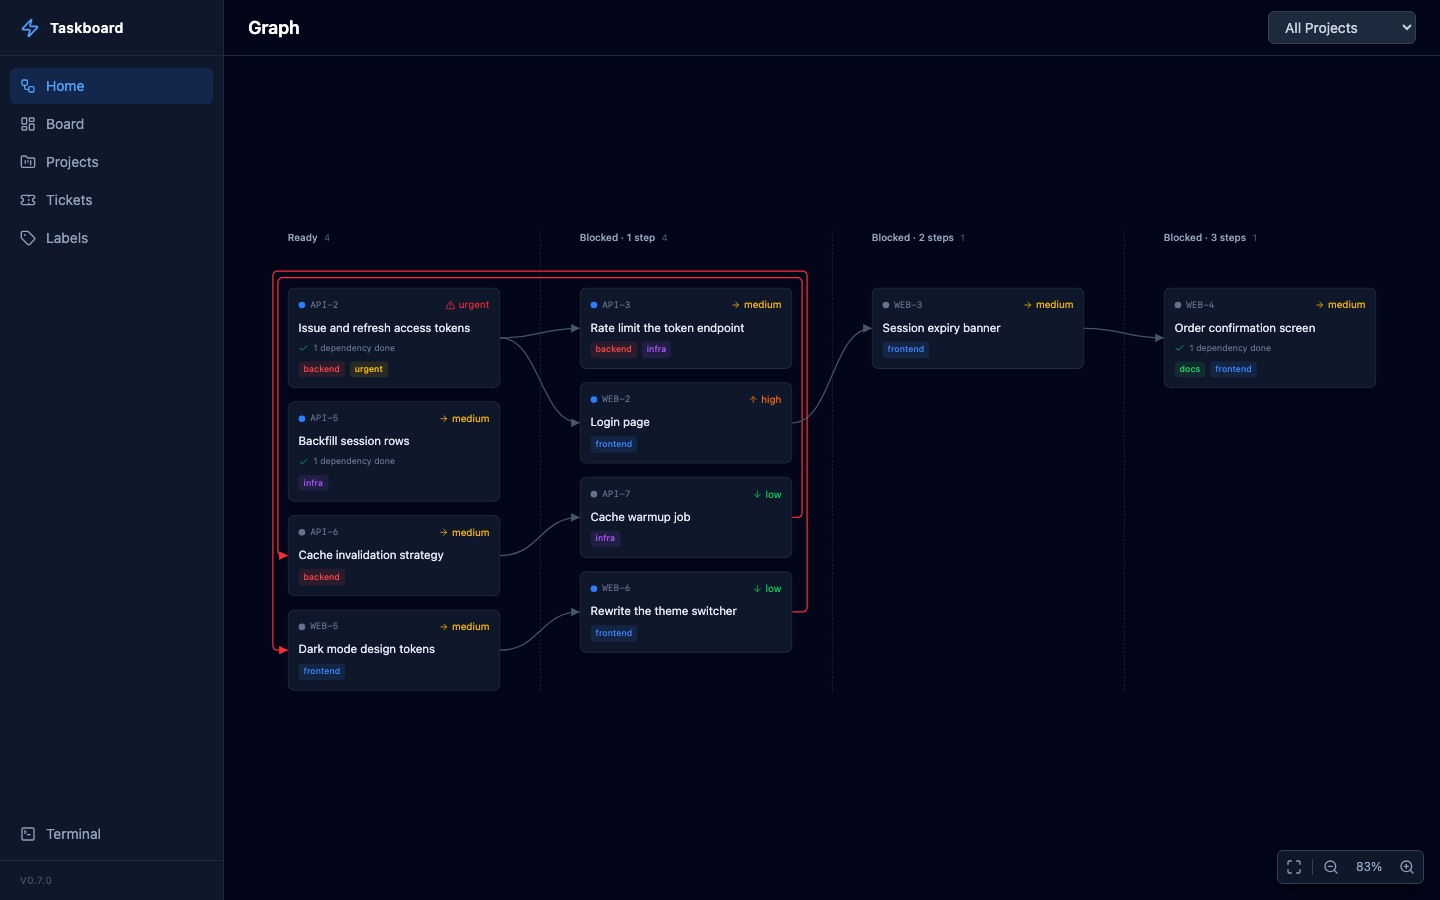
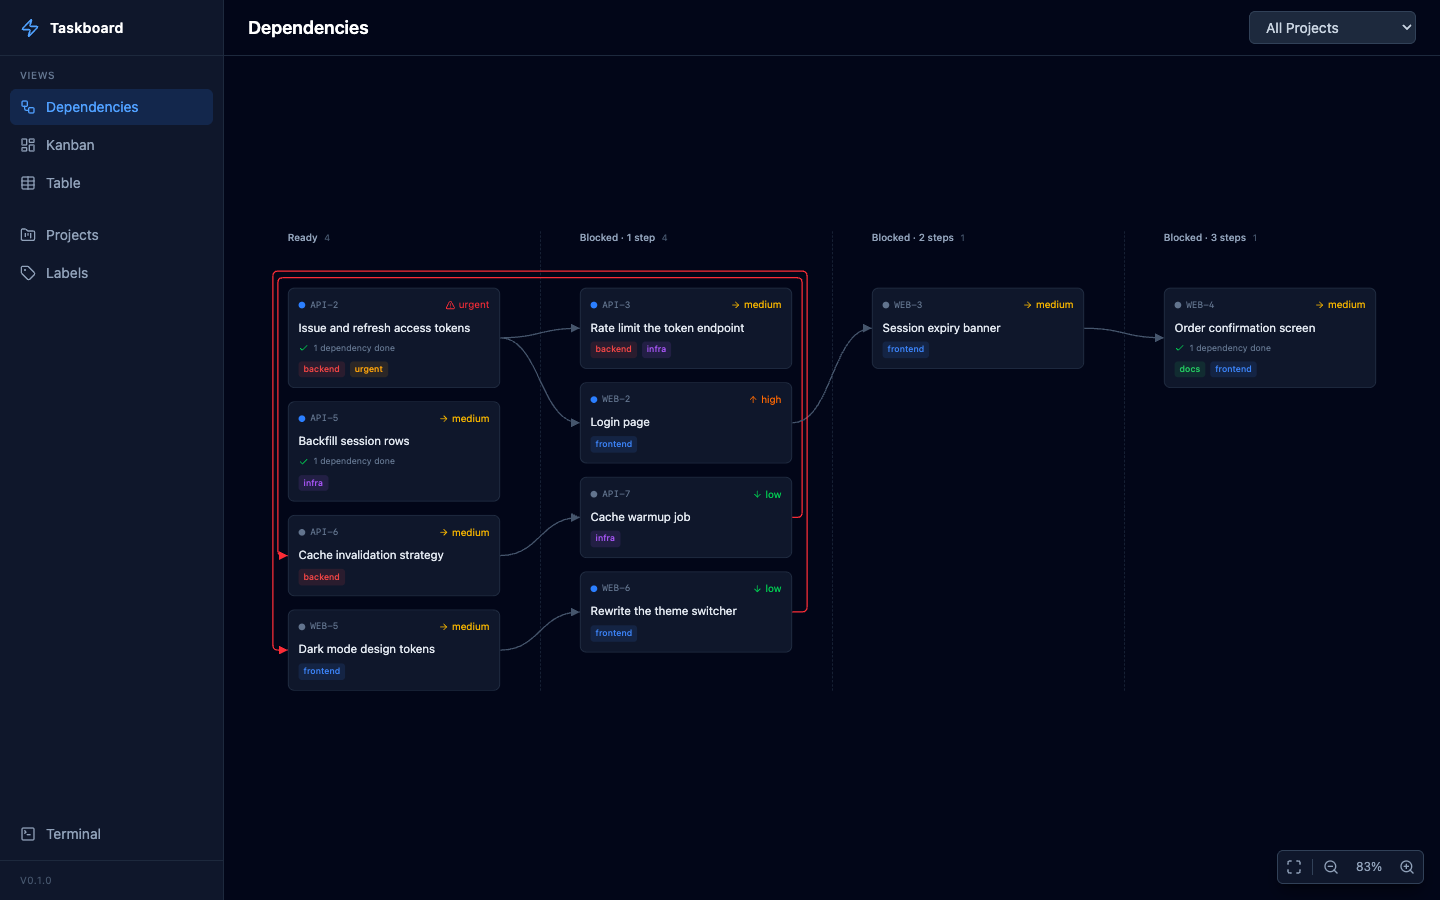
feat: group the ticket views in the sidebar as Dependencies, Kanban and Table
Home, Board and Tickets showed the same tickets three ways, but the sidebar
listed them among Projects and Labels under unrelated names, and the graph
page was headed Graph while its entry said Home.

The sidebar now opens with a Views group holding Dependencies at /, Kanban at
/kanban and Table at /table, with Projects and Labels below it, outside the
group. Each page heading uses the same name as its entry. The entries live in
web/src/lib/navigation.ts. The /board, /tickets and /graph routes are gone
with no redirects, since page URLs carry no backward compatibility, and
nothing else in the app linked to them.

App.tsx now exports its routes as AppRoutes, so a new test can render them
inside a memory router without a DOM. It checks the group and its order, that
each path shows the matching heading and lit entry, and that the old paths
render nothing.

The README describes the three views under one Views feature, and all six
screenshots are regenerated at 1440x900 from two seeded throwaway databases,
so each shows the new sidebar.

Changed region(s): [[0.0, 0.0622, 0.1562, 0.3111], [0.8438, 0.0, 0.9375, 0.0622], [0.1875, 0.0, 0.25, 0.0622]]

diff --git a/web/src/App.test.tsx b/web/src/App.test.tsx
@@ -1,0 +1,93 @@
+import { describe, expect, it, vi } from "vitest";
+import { renderToStaticMarkup } from "react-dom/server";
+import { MemoryRouter } from "react-router-dom";
+import { AppRoutes } from "./App";
+import { VIEWS_GROUP_LABEL, otherItems, viewItems } from "./lib/navigation";
+
+// The terminal needs a DOM, and it stays closed here anyway.
+vi.mock("./components/TerminalPanel", () => ({ default: () => null }));
+
+// Server rendering runs no effects, so the pages never call the API. The mock
+// makes sure of it: any call fails the test.
+vi.mock("./api/client", () => ({
+  api: new Proxy(
+    {},
+    {
+      get: (_target, name) => {
+        throw new Error(`unexpected API call: api.${String(name)}`);
+      },
+    },
+  ),
+}));
+
+function render(path: string): string {
+  return renderToStaticMarkup(
+    <MemoryRouter initialEntries={[path]}>
+      <AppRoutes />
+    </MemoryRouter>,
+  );
+}
+
+function heading(html: string): string | undefined {
+  return /<h1[^>]*>([^<]*)<\/h1>/.exec(html)?.[1];
+}
+
+// The labels of the links inside the Views group, in order.
+function viewsGroupLinks(html: string): string[] {
+  const group = /<div role="group" aria-labelledby="nav-views">(.*?)<\/div><\/div>/.exec(html);
+  if (!group) return [];
+  return [...group[1].matchAll(/<a [^>]*href="([^"]*)"[^>]*>.*?([^<>]+)<\/a>/g)].map(
+    (m) => `${m[2]} ${m[1]}`,
+  );
+}
+
+// The label of the link the router marks as the current page.
+function activeLink(html: string): string | undefined {
+  return /<a [^>]*aria-current="page"[^>]*>.*?([^<>]+)<\/a>/.exec(html)?.[1];
+}
+
+describe("views navigation", () => {
+  it("groups exactly Dependencies, Kanban and Table under Views", () => {
+    expect(VIEWS_GROUP_LABEL).toBe("Views");
+    expect(viewItems.map((i) => `${i.label} ${i.to}`)).toEqual([
+      "Dependencies /",
+      "Kanban /kanban",
+      "Table /table",
+    ]);
+    expect(otherItems.map((i) => `${i.label} ${i.to}`)).toEqual([
+      "Projects /projects",
+      "Labels /labels",
+    ]);
+  });
+
+  it("renders the Views group in the sidebar with Projects and Labels outside it", () => {
+    const html = render("/");
+    expect(html).toContain('<p id="nav-views"');
+    expect(html).toMatch(/id="nav-views"[^>]*>Views<\/p>/);
+    expect(viewsGroupLinks(html)).toEqual(["Dependencies /", "Kanban /kanban", "Table /table"]);
+    expect(html).toMatch(/href="\/projects"[^>]*>.*?Projects<\/a>/);
+    expect(html).toMatch(/href="\/labels"[^>]*>.*?Labels<\/a>/);
+  });
+
+  it.each([
+    ["/", "Dependencies"],
+    ["/kanban", "Kanban"],
+    ["/table", "Table"],
+  ])("serves %s with the heading and active nav entry %s", (path, name) => {
+    const html = render(path);
+    expect(heading(html)).toBe(name);
+    expect(activeLink(html)).toBe(name);
+  });
+
+  it.each(["/board", "/tickets", "/graph"])("no longer serves %s, not even as a redirect", (path) => {
+    const warn = vi.spyOn(console, "warn").mockImplementation(() => {});
+    try {
+      const html = render(path);
+      // The layout route does not match either, so nothing renders at all.
+      expect(html).toBe("");
+      expect(warn).toHaveBeenCalledWith(expect.stringContaining(`No routes matched location "${path}"`));
+    } finally {
+      warn.mockRestore();
+    }
+  });
+});

diff --git a/web/src/components/Layout.tsx b/web/src/components/Layout.tsx
@@ -1,23 +1,27 @@
 import { useState } from "react";
 import { NavLink, Outlet } from "react-router-dom";
-import {
-  Workflow,
-  LayoutDashboard,
-  FolderKanban,
-  Ticket,
-  Tag,
-  Zap,
-  TerminalSquare,
-} from "lucide-react";
+import { Zap, TerminalSquare } from "lucide-react";
 import TerminalPanel from "./TerminalPanel";
+import { VIEWS_GROUP_LABEL, otherItems, viewItems, type NavItem } from "../lib/navigation";
 
-const navItems = [
-  { to: "/", icon: Workflow, label: "Home" },
-  { to: "/board", icon: LayoutDashboard, label: "Board" },
-  { to: "/projects", icon: FolderKanban, label: "Projects" },
-  { to: "/tickets", icon: Ticket, label: "Tickets" },
-  { to: "/labels", icon: Tag, label: "Labels" },
-];
+function NavEntry({ item }: { item: NavItem }) {
+  return (
+    <NavLink
+      to={item.to}
+      end={item.to === "/"}
+      className={({ isActive }) =>
+        `flex items-center gap-2.5 px-2.5 py-2 rounded-md text-sm transition-colors ${
+          isActive
+            ? "bg-blue-500/15 text-blue-400"
+            : "text-slate-400 hover:text-slate-200 hover:bg-slate-800"
+        }`
+      }
+    >
+      <item.icon className="w-4 h-4" />
+      {item.label}
+    </NavLink>
+  );
+}
 
 export default function Layout() {
   const [terminalOpen, setTerminalOpen] = useState(false);
@@ -32,24 +36,25 @@ export default function Layout() {
           </span>
         </div>
 
-        <nav className="flex-1 py-3 px-2.5 space-y-0.5">
-          {navItems.map((item) => (
-            <NavLink
-              key={item.to}
-              to={item.to}
-              end={item.to === "/"}
-              className={({ isActive }) =>
-                `flex items-center gap-2.5 px-2.5 py-2 rounded-md text-sm transition-colors ${
-                  isActive
-                    ? "bg-blue-500/15 text-blue-400"
-                    : "text-slate-400 hover:text-slate-200 hover:bg-slate-800"
-                }`
-              }
+        <nav className="flex-1 py-3 px-2.5 space-y-4">
+          <div role="group" aria-labelledby="nav-views">
+            <p
+              id="nav-views"
+              className="px-2.5 pb-1.5 text-[10px] font-medium text-slate-500 tracking-wider uppercase"
             >
-              <item.icon className="w-4 h-4" />
-              {item.label}
-            </NavLink>
-          ))}
+              {VIEWS_GROUP_LABEL}
+            </p>
+            <div className="space-y-0.5">
+              {viewItems.map((item) => (
+                <NavEntry key={item.to} item={item} />
+              ))}
+            </div>
+          </div>
+          <div className="space-y-0.5">
+            {otherItems.map((item) => (
+              <NavEntry key={item.to} item={item} />
+            ))}
+          </div>
         </nav>
 
         <div className="px-2.5 pb-2">

diff --git a/web/src/App.tsx b/web/src/App.tsx
@@ -1,4 +1,4 @@
-import { BrowserRouter, Routes, Route, Navigate } from "react-router-dom";
+import { BrowserRouter, Routes, Route } from "react-router-dom";
 import Layout from "./components/Layout";
 import Board from "./pages/Board";
 import Graph from "./pages/Graph";
@@ -6,20 +6,26 @@ import Projects from "./pages/Projects";
 import Tickets from "./pages/Tickets";
 import Labels from "./pages/Labels";
 
+// The views live at /, /kanban and /table. Their old paths (/board, /tickets,
+// /graph) are gone on purpose, with no redirects.
+export function AppRoutes() {
+  return (
+    <Routes>
+      <Route element={<Layout />}>
+        <Route index element={<Graph />} />
+        <Route path="kanban" element={<Board />} />
+        <Route path="table" element={<Tickets />} />
+        <Route path="projects" element={<Projects />} />
+        <Route path="labels" element={<Labels />} />
+      </Route>
+    </Routes>
+  );
+}
+
 export default function App() {
   return (
     <BrowserRouter>
-      <Routes>
-        <Route element={<Layout />}>
-          <Route index element={<Graph />} />
-          <Route path="board" element={<Board />} />
-          {/* The graph lived here before it became the home page. */}
-          <Route path="graph" element={<Navigate to="/" replace />} />
-          <Route path="projects" element={<Projects />} />
-          <Route path="tickets" element={<Tickets />} />
-          <Route path="labels" element={<Labels />} />
-        </Route>
-      </Routes>
+      <AppRoutes />
     </BrowserRouter>
   );
 }

diff --git a/web/src/lib/navigation.ts b/web/src/lib/navigation.ts
@@ -1,0 +1,30 @@
+import {
+  FolderKanban,
+  LayoutDashboard,
+  Tag,
+  Table,
+  Workflow,
+  type LucideIcon,
+} from "lucide-react";
+
+export interface NavItem {
+  to: string;
+  icon: LucideIcon;
+  label: string;
+}
+
+// The three views show the same tickets three ways, so the sidebar groups them.
+// Each page's heading uses the same label as its entry here.
+export const VIEWS_GROUP_LABEL = "Views";
+
+export const viewItems: NavItem[] = [
+  { to: "/", icon: Workflow, label: "Dependencies" },
+  { to: "/kanban", icon: LayoutDashboard, label: "Kanban" },
+  { to: "/table", icon: Table, label: "Table" },
+];
+
+// Projects and labels are different things, so they sit outside the group.
+export const otherItems: NavItem[] = [
+  { to: "/projects", icon: FolderKanban, label: "Projects" },
+  { to: "/labels", icon: Tag, label: "Labels" },
+];

diff --git a/web/src/pages/Tickets.tsx b/web/src/pages/Tickets.tsx
@@ -113,7 +113,7 @@ export default function Tickets() {
   return (
     <div className="h-full flex flex-col">
       <header className="shrink-0 flex items-center justify-between px-6 h-14 border-b border-slate-800">
-        <h1 className="text-lg font-semibold text-white">Tickets</h1>
+        <h1 className="text-lg font-semibold text-white">Table</h1>
         <button
           onClick={() => setShowCreate(true)}
           className="inline-flex items-center gap-2 px-3.5 py-1.5 text-sm font-medium bg-blue-600 hover:bg-blue-500 text-white rounded-lg transition-colors"

diff --git a/web/src/pages/Board.tsx b/web/src/pages/Board.tsx
@@ -220,7 +220,7 @@ export default function Board() {
   return (
     <div className="h-full flex flex-col">
       <header className="shrink-0 flex items-center justify-between px-6 h-14 border-b border-slate-800">
-        <h1 className="text-lg font-semibold text-white">Board</h1>
+        <h1 className="text-lg font-semibold text-white">Kanban</h1>
         <select
           value={selectedProject}
           onChange={(e) => setSelectedProject(e.target.value)}

diff --git a/web/src/pages/Graph.tsx b/web/src/pages/Graph.tsx
@@ -441,7 +441,7 @@ export default function Graph() {
   return (
     <div className="h-full flex flex-col">
       <header className="shrink-0 flex items-center justify-between px-6 h-14 border-b border-slate-800">
-        <h1 className="text-lg font-semibold text-white">Graph</h1>
+        <h1 className="text-lg font-semibold text-white">Dependencies</h1>
         <select
           value={selectedProject}
           onChange={(e) => {

diff --git a/README.md b/README.md
@@ -1,21 +1,23 @@
 # Taskboard
 
-A local, self-hosted project management tool with a dependency graph for a home page, a Kanban board, a full CLI, and a built-in [MCP](https://modelcontextprotocol.io/) server that lets AI assistants manage your projects, tickets, and labels directly.
+A local, self-hosted project management tool with three views of your tickets (a dependency graph for a home page, a Kanban board and a table), a full CLI, and a built-in [MCP](https://modelcontextprotocol.io/) server that lets AI assistants manage your projects, tickets, and labels directly.
 
 Single binary. SQLite-backed. No Docker, no external database, no runtime dependencies.
 
 ## Screenshots
 
-![Dependency Graph](screenshots/graph.png)
+![Dependencies view](screenshots/graph.png)
 
-![Kanban Board](screenshots/board.png)
+![Kanban view](screenshots/board.png)
 
 ![Ticket Detail](screenshots/ticket-detail.png)
 
 ## Features
 
-- **Dependency Graph** — the home page puts open tickets in columns by how many steps of unfinished work block them, with arrows from each blocker and cycles drawn in red. Hover a card to trace what blocks it and what it blocks; pan, zoom or fit the graph to the screen
-- **Kanban Board** — drag-and-drop ticket management across Todo, In Progress, and Done columns, at `/board`
+- **Views** — the sidebar's Views group shows the same tickets three ways:
+  - **Dependencies**, the home page at `/`, puts open tickets in columns by how many steps of unfinished work block them, with arrows from each blocker and cycles drawn in red. Hover a card to trace what blocks it and what it blocks; pan, zoom or fit the graph to the screen
+  - **Kanban**, at `/kanban`, is drag-and-drop ticket management across Todo, In Progress, and Done columns
+  - **Table**, at `/table`, lists tickets with their labels, repos, status, priority and due date
 - **Projects** — organize work with customizable projects (icons, colors, prefixes)
 - **Tickets** — priority levels, due dates, labels, subtasks, dependencies, and one or more repos
 - **Embedded Terminal** — run AI coding agents (opencode, Claude Code) directly from the web UI
@@ -197,7 +199,7 @@ Here's what that looks like — a project and tickets created entirely by an AI 
 
 ![Project created by AI](screenshots/project.png)
 
-![Tickets list](screenshots/tickets.png)
+![Table view](screenshots/tickets.png)
 
 ### Embedded Terminal
 
